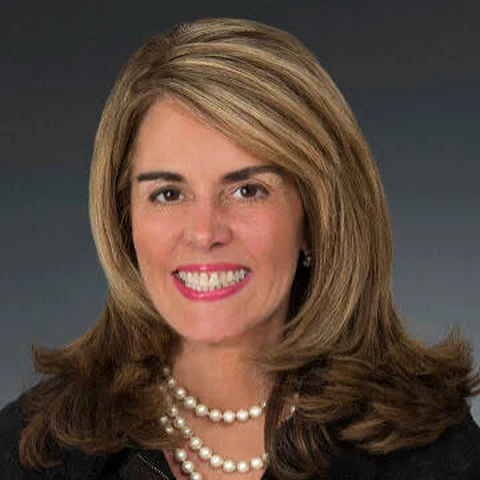
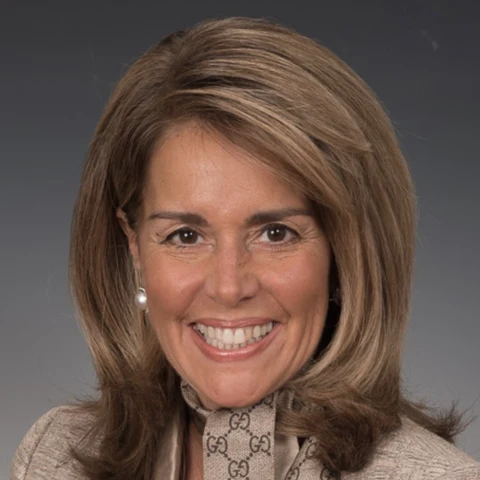
Inauguration tab: new Lisa Andoscia headshot; Host Committee synced to DRAFT doc (102 names)
Claude-Session: https://claude.ai/code/session_01YcEbZeDgfsXBxQ1AJL2xnT

diff --git a/es/inauguration/index.html b/es/inauguration/index.html
@@ -169,9 +169,10 @@
         <li><strong>Isha Hall</strong></li>
         <li><strong>Earl Hazard</strong></li>
         <li><strong>Maura Healy</strong></li>
-        <li><strong>Nelly Hoffin</strong></li>
+        <li><strong>Nelly Hoffens-Vargas</strong></li>
         <li><strong>Cameron Hudson</strong></li>
         <li><strong>Nicole Issa</strong></li>
+        <li><strong>Jackie Jackson-Askie</strong></li>
         <li><strong>David Kaloupek</strong></li>
         <li><strong>Tom Kane</strong></li>
         <li><strong>Rep. Rebecca Kislak</strong></li>
@@ -201,7 +202,7 @@
         <li><strong>Farouk Rajab</strong></li>
         <li><strong>Perry Raso</strong></li>
         <li><strong>Jessica Ricci</strong></li>
-        <li><strong>Alberto Rivas</strong></li>
+        <li><strong>Councilman Alberto Rivas</strong></li>
         <li><strong>Riley Rivas</strong></li>
         <li><strong>Johandry Rodriguez</strong></li>
         <li><strong>Kenny San Antonio</strong></li>

diff --git a/inauguration/index.html b/inauguration/index.html
@@ -169,9 +169,10 @@
         <li><strong>Isha Hall</strong></li>
         <li><strong>Earl Hazard</strong></li>
         <li><strong>Maura Healy</strong></li>
-        <li><strong>Nelly Hoffin</strong></li>
+        <li><strong>Nelly Hoffens-Vargas</strong></li>
         <li><strong>Cameron Hudson</strong></li>
         <li><strong>Nicole Issa</strong></li>
+        <li><strong>Jackie Jackson-Askie</strong></li>
         <li><strong>David Kaloupek</strong></li>
         <li><strong>Tom Kane</strong></li>
         <li><strong>Rep. Rebecca Kislak</strong></li>
@@ -201,7 +202,7 @@
         <li><strong>Farouk Rajab</strong></li>
         <li><strong>Perry Raso</strong></li>
         <li><strong>Jessica Ricci</strong></li>
-        <li><strong>Alberto Rivas</strong></li>
+        <li><strong>Councilman Alberto Rivas</strong></li>
         <li><strong>Riley Rivas</strong></li>
         <li><strong>Johandry Rodriguez</strong></li>
         <li><strong>Kenny San Antonio</strong></li>

diff --git a/_build/build.py b/_build/build.py
@@ -702,9 +702,10 @@ INAUG_HOST_COMMITTEE = [
     "Isha Hall",
     "Earl Hazard",
     "Maura Healy",
-    "Nelly Hoffin",
+    "Nelly Hoffens-Vargas",
     "Cameron Hudson",
     "Nicole Issa",
+    "Jackie Jackson-Askie",
     "David Kaloupek",
     "Tom Kane",
     "Rep. Rebecca Kislak",
@@ -734,7 +735,7 @@ INAUG_HOST_COMMITTEE = [
     "Farouk Rajab",
     "Perry Raso",
     "Jessica Ricci",
-    "Alberto Rivas",
+    "Councilman Alberto Rivas",
     "Riley Rivas",
     "Johandry Rodriguez",
     "Kenny San Antonio",
